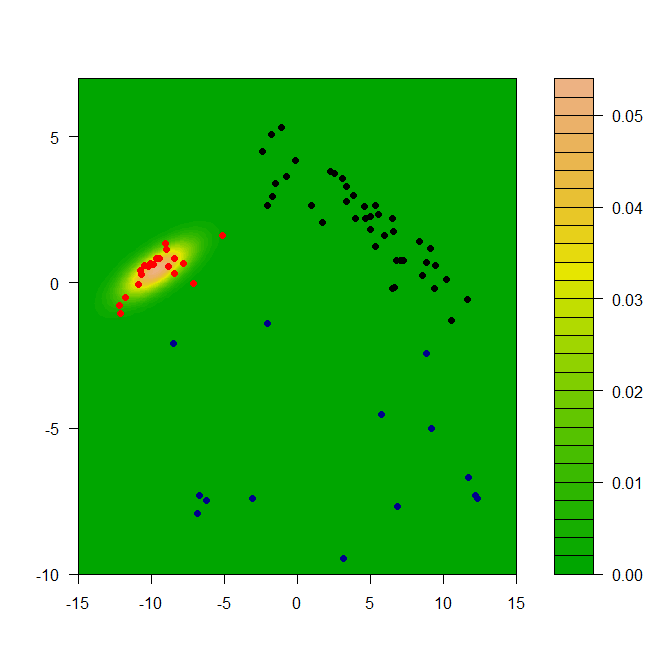
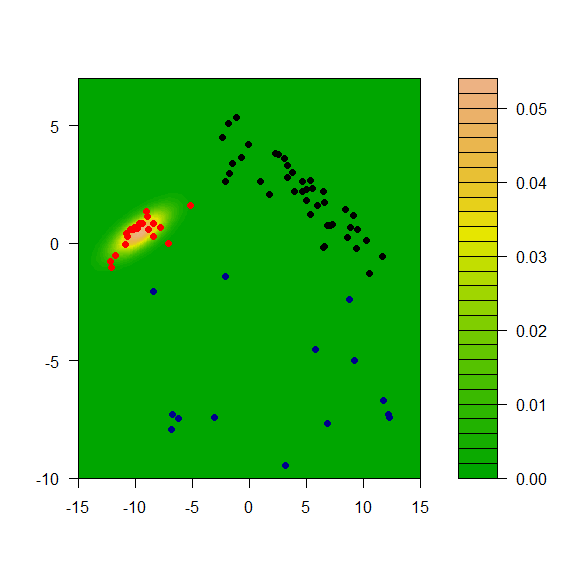
Clean up, clean up, everbody clean up...

diff --git a/Lecture21/README.md b/Lecture21/README.md
@@ -16,13 +16,26 @@ The lecture slides are [here](STAT406-17-lecture-21-preliminary.pdf).
 Model based clustering
 ----------------------
 
+Model-based clustering methods depend on a probabilistic (generative?) model that postulates that the distribution of the observed features (over the whole population), typically as a mixture of several different distributions. Given a sample of *n* vectors of features *X\_1*, *X\_2*, ..., *X\_n*, the clustering problem then becomes the estimation of the *n* unobserved labels that indicate to which sub-population (cluster, group) each *X\_i* belongs. In addition, one generally has to estimate the parameters that specify the distribution of *X* in each assumed group.
+
+Given that this method is based on a full specificification of the distribution of the observed vector of features, it is not surprising that the parameters are estimated using maximum likelihood. The difficulty is that there are *n* unobserved variables (the group labels) that also need to be estimated. One can also think about this as having *n* missing observations, and use the EM algorithm to perform maximum likelihood estimation with missing observations.
+
 EM algorithm
 ------------
+
+The specifics of the EM algorithm were introduced and discussed in class. Although the algorithm may seem clear at first sight, it is fairly subtle, and mistakes and misunderstandings are very (**very**) common. Many applications of the EM algorithm found on-line are either wrong, or wrongly derived. See Lecture 22 for a more detailed discussion and a different (and also very useful) application of the algorithm.
 
 Bivariate Gaussian mixture model via EM "by hand"
 -------------------------------------------------
 
-We will use a 2-dimensional representation of the UN votes data. This lower-dimensional representation is obtained using multidimensional scaling, a topic we will cover later in the module.
+We will use a 2-dimensional representation of the UN votes data. This lower-dimensional representation is obtained using multidimensional scaling, a topic we will cover later in the course. For formulas and specific steps of the algorithm please refer to your class notes.
+
+``` r
+X <- read.table(file='../Lecture20/unvotes.csv', sep=',', row.names=1, header=TRUE)
+# Compute pairwise distances and use MDS
+dd <- dist(t(X))
+tmp <- cmdscale(dd, k = 2)
+```
 
 This is the data with which we will work:
 
